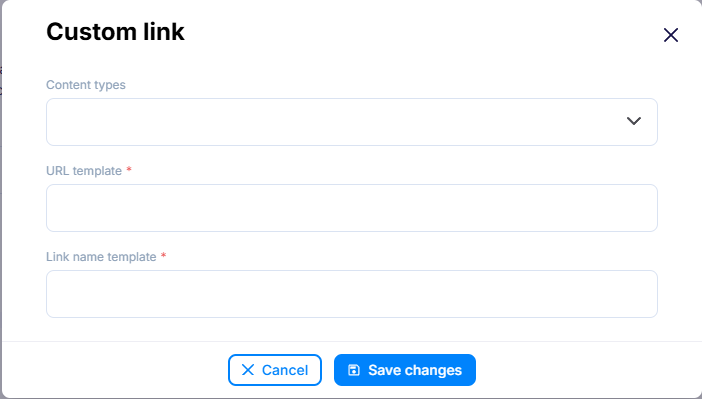
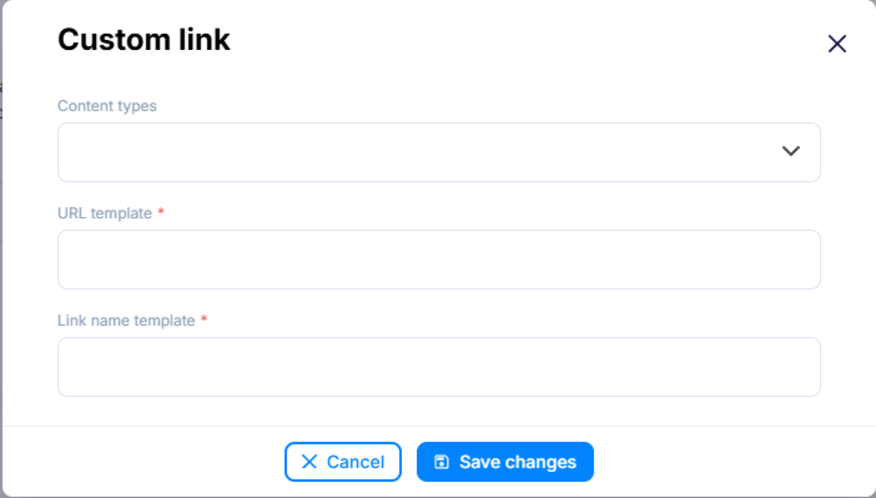
#28052 added content improvements pt2

diff --git a/docs/panel/SpaceSettings/custom-links.md b/docs/panel/SpaceSettings/custom-links.md
@@ -20,15 +20,16 @@ quick access to wherever that content is used.
 Use **Add link** to create a new custom link, and the trash icon to remove one.
 Select a link to open its configuration.
 
-[![Custom link configuration](../images/space-settings/custom-link-modal.png)](../images/space-settings/custom-link-modal.png){: .border}
+[![Custom link configuration](../images/space-settings/custom-link-modal.png)](../images/space-settings/custom-link-modal.png){: .center .width75 }
 
 - **Content types** - The content types this link appears for. Leave empty to
   show the link for all content types.
-- **URL template** *(required)* - It's a place to enter the link template, 
-  e.g. https://my-blog/post/{slug}, where slug is the name of the content field 
-  of the type selected below. Instead of {slug}, you can use any field of a given
-  content type, it is also possible to use nesting, e.g. {internal.createdAt}.
-  You can also use list fields: {addresses[0].city}.
+- **URL template** *(required)* - It's a place to enter the link template,
+  e.g. `https://my-blog/post/{slug}`, where `slug` is the name of the content
+  field of the type selected below. Instead of `{slug}`, you can use any field
+  of a given content type, it is also possible to use nesting,
+  e.g. `{internal.createdAt}`. You can also use list fields:
+  `{addresses[0].city}`.
 - **Link name template** *(required)* - The label shown on the button. It can
   also include object fields, for example `Open {title}`.
 
@@ -50,7 +51,7 @@ duplicating an object.
 A common use case is a direct link to a preview or staging environment from the
 editor. Configure a URL template that points to your preview site:
 
-[![Custom link configuration for a preview environment](../images/space-settings/simple-routing-modal.png)](../images/space-settings/simple-routing-modal.png){: .border}
+[![Custom link configuration for a preview environment](../images/space-settings/simple-routing-modal.png)](../images/space-settings/simple-routing-modal.png){: .center .width75 }
 
 With an object like this:
 
@@ -64,7 +65,7 @@ you get a `green-plant` link leading to
 When a page URL needs several fields — for example a category name *and* a slug —
 combine them in the URL template:
 
-[![Custom link configuration with complex routing](../images/space-settings/complex-routing-modal.png)](../images/space-settings/complex-routing-modal.png){: .border}
+[![Custom link configuration with complex routing](../images/space-settings/complex-routing-modal.png)](../images/space-settings/complex-routing-modal.png){: .center .width75 }
 
 With an object like this:
 

diff --git a/docs/panel/SpaceSettings/index.md b/docs/panel/SpaceSettings/index.md
@@ -5,8 +5,8 @@ tags:
 
 # Space Settings
 
-Space Settings is the place to configure features that apply across a whole
-space.
+Space Settings is the place to configure features that apply across a whole space.
+
 - [Content Preview](content-preview.md) - open draft and published versions of
   your content directly from the editor.
 - [Custom Links](custom-links.md) - add buttons with dynamic links to the

diff --git a/docs/panel/SpaceSettings/content-preview.md b/docs/panel/SpaceSettings/content-preview.md
@@ -54,7 +54,7 @@ The **Page route template** is configured per content type, in the Content
 Preview panel shown when you edit a Content Type Definition. Set it for each
 content type you want to preview.
 
-[![Content Preview route template](../images/space-settings/content-preview-config-ctd.png)](../images/space-settings/content-preview-config-ctd.png){: .border}
+[![Content Preview route template](../images/space-settings/content-preview-config-ctd.png)](../images/space-settings/content-preview-config-ctd.png){: .center .width50 }
 
 - **Page route template** *(required)* - The URL path of your content pages,
   for example `/blog/{slug}`, where `{slug}` is a field of the content type.